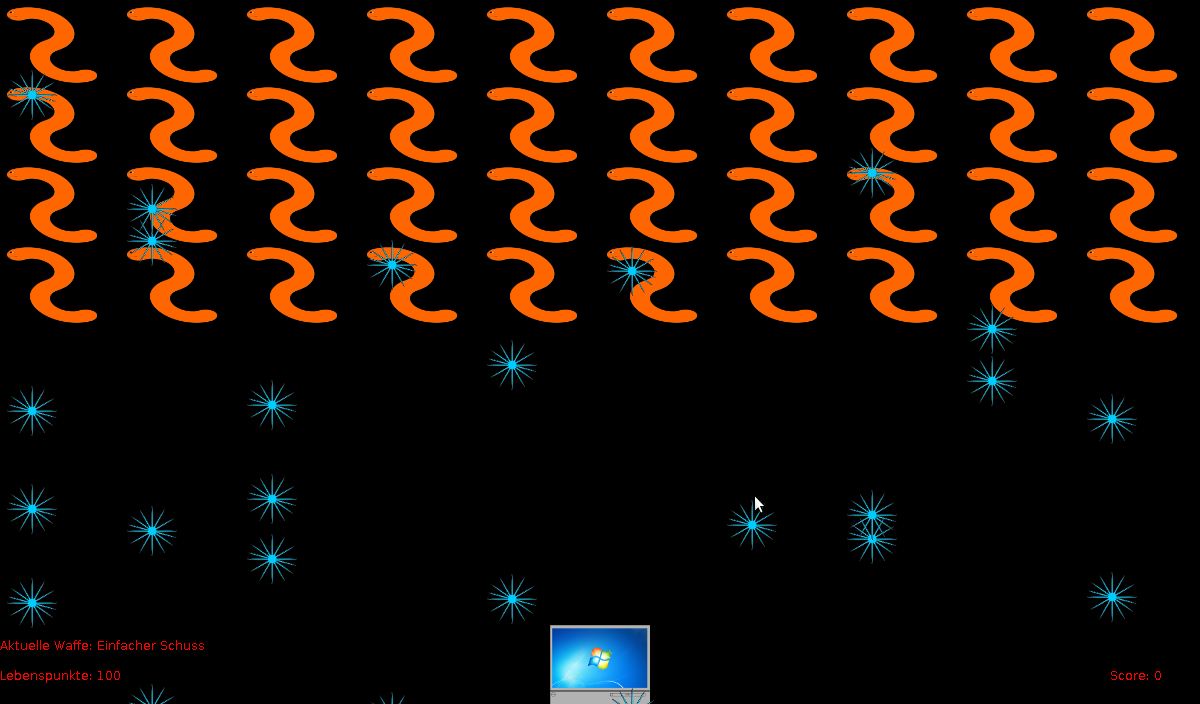
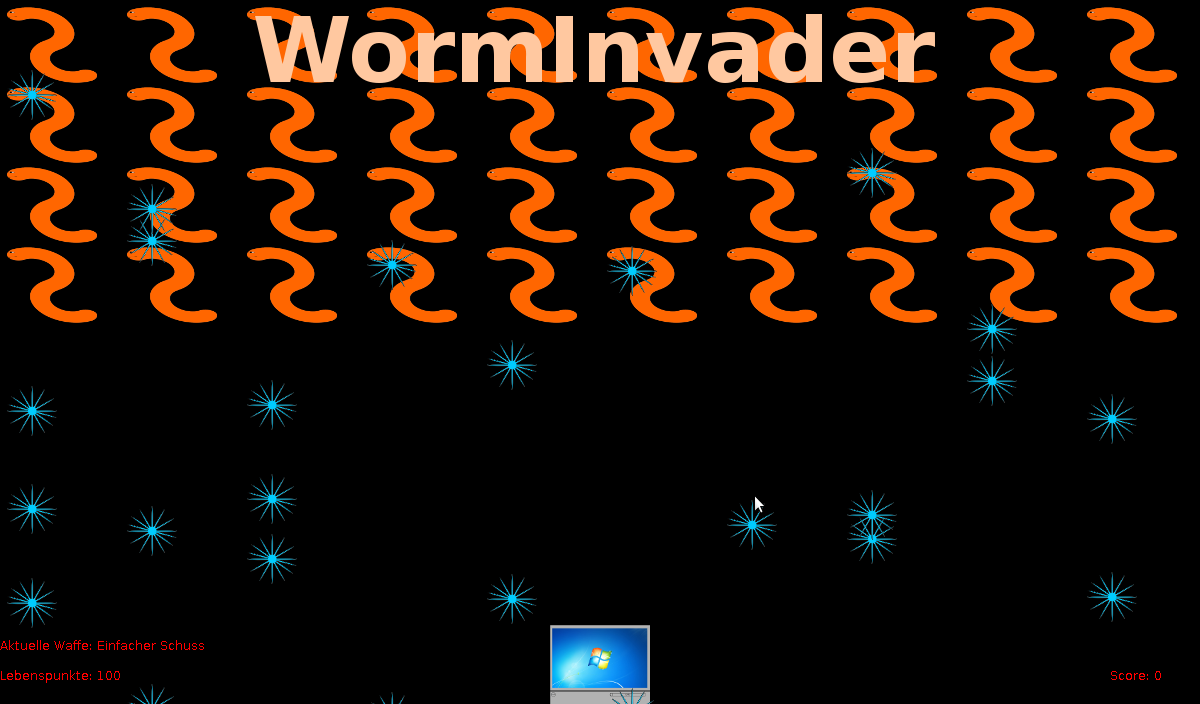
Updates

Changed region(s): [[0.2158, 0.0, 0.8017, 0.125]]

diff --git a/src/WormInvader/StartPanel.java b/src/WormInvader/StartPanel.java
@@ -1,5 +1,6 @@
 package WormInvader;
 
+import java.awt.Color;
 import java.awt.Graphics;
 import java.awt.event.ActionEvent;
 import java.awt.event.ActionListener;
@@ -64,6 +65,10 @@ public class StartPanel extends JPanel {
 		this.add(ButtonStartGame);
 		this.add(ButtonAnleitung);
 		this.add(ButtonZurueck);
+		ButtonZurueck.setBackground(Color.pink);
+		ButtonAnleitung.setBackground(Color.pink);
+		ButtonStartGame.setBackground(Color.pink);
+		ButtonEinstellung.setBackground(Color.pink);
 		ButtonZurueck.setBounds(520, 260, 150, 20);
 		ButtonAnleitung.setBounds(520, 180, 150, 20);
 		ButtonStartGame.setBounds(520, 140, 150, 20);

diff --git a/src/WormInvader/AnleitungPanel.java b/src/WormInvader/AnleitungPanel.java
@@ -76,8 +76,9 @@ public class AnleitungPanel extends JPanel {
 	private void createinput() {
 		textFeldAnleitung.setBackground(Color.CYAN);
 		textFeldAnleitung.setEditable(false);
+		textFeldAnleitung.setFocusable(false);
 		textFeldAnleitung.setFont(new Font("Times New Roman", Font.PLAIN, 20));
-		textFeldAnleitung.setBounds(0, 0, 1200, 650);
+		textFeldAnleitung.setBounds(0, 200, 1200, 350);
 		zurueck.setBounds(550, 650, 100, 30);
 		zurueck.addActionListener(new ActionListener() {
 

diff --git a/src/WormInvader/Startscreen.java b/src/WormInvader/Startscreen.java
@@ -25,7 +25,7 @@ public class Startscreen extends JFrame {
 
 		add(einstellungspanel = new EinstellungPanel());
 		add(startpanel = new StartPanel());
-		setTitle("VirenSchleuder");
+		setTitle("WormInvader");
 		setDefaultCloseOperation(EXIT_ON_CLOSE);
 		setSize(WIDTH, HEIGTH);
 		setLocationRelativeTo(null);
